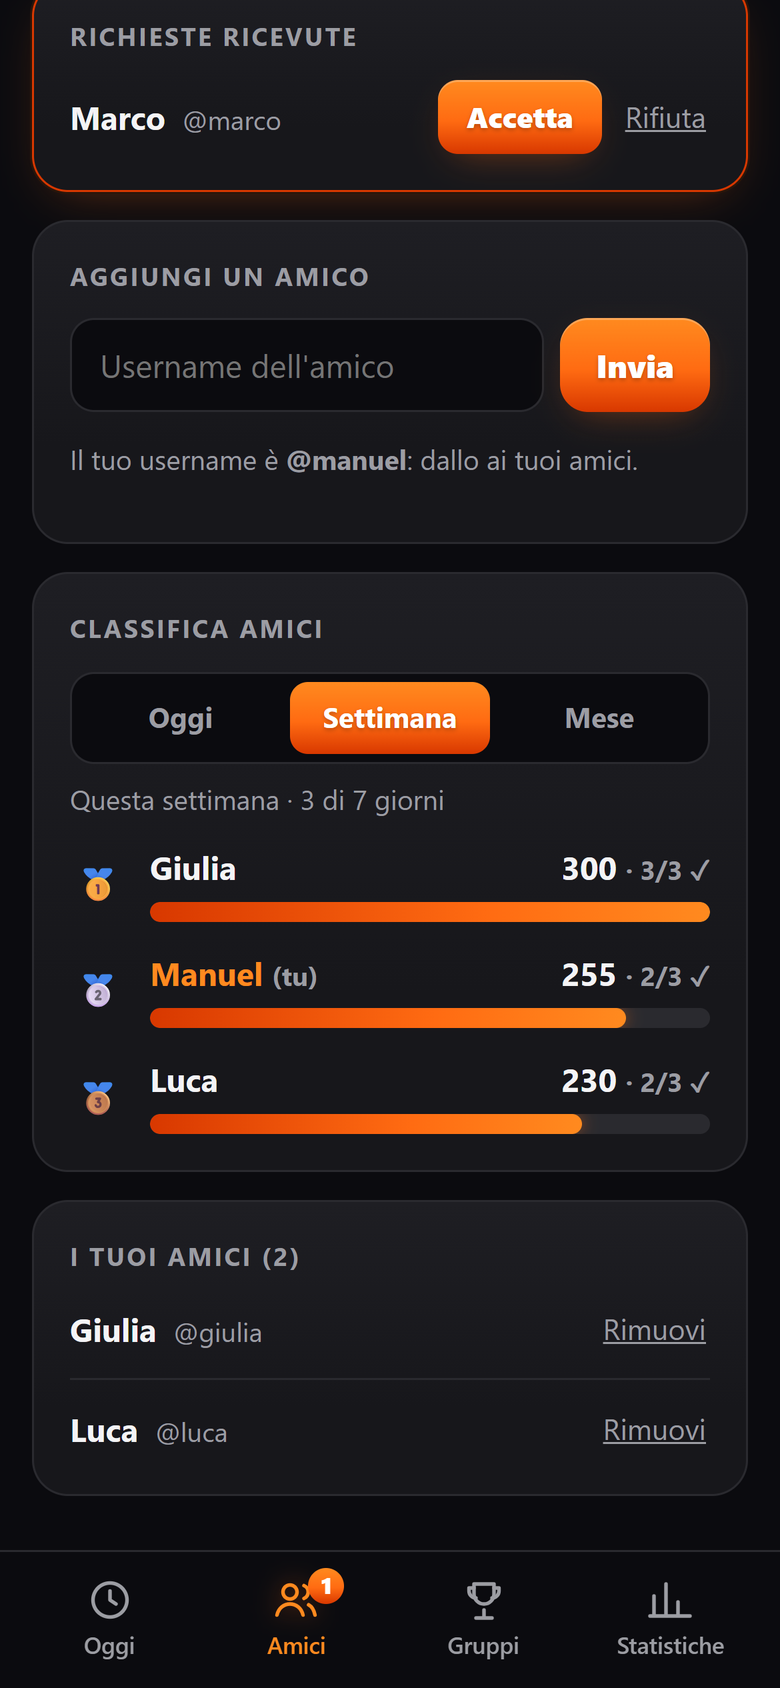
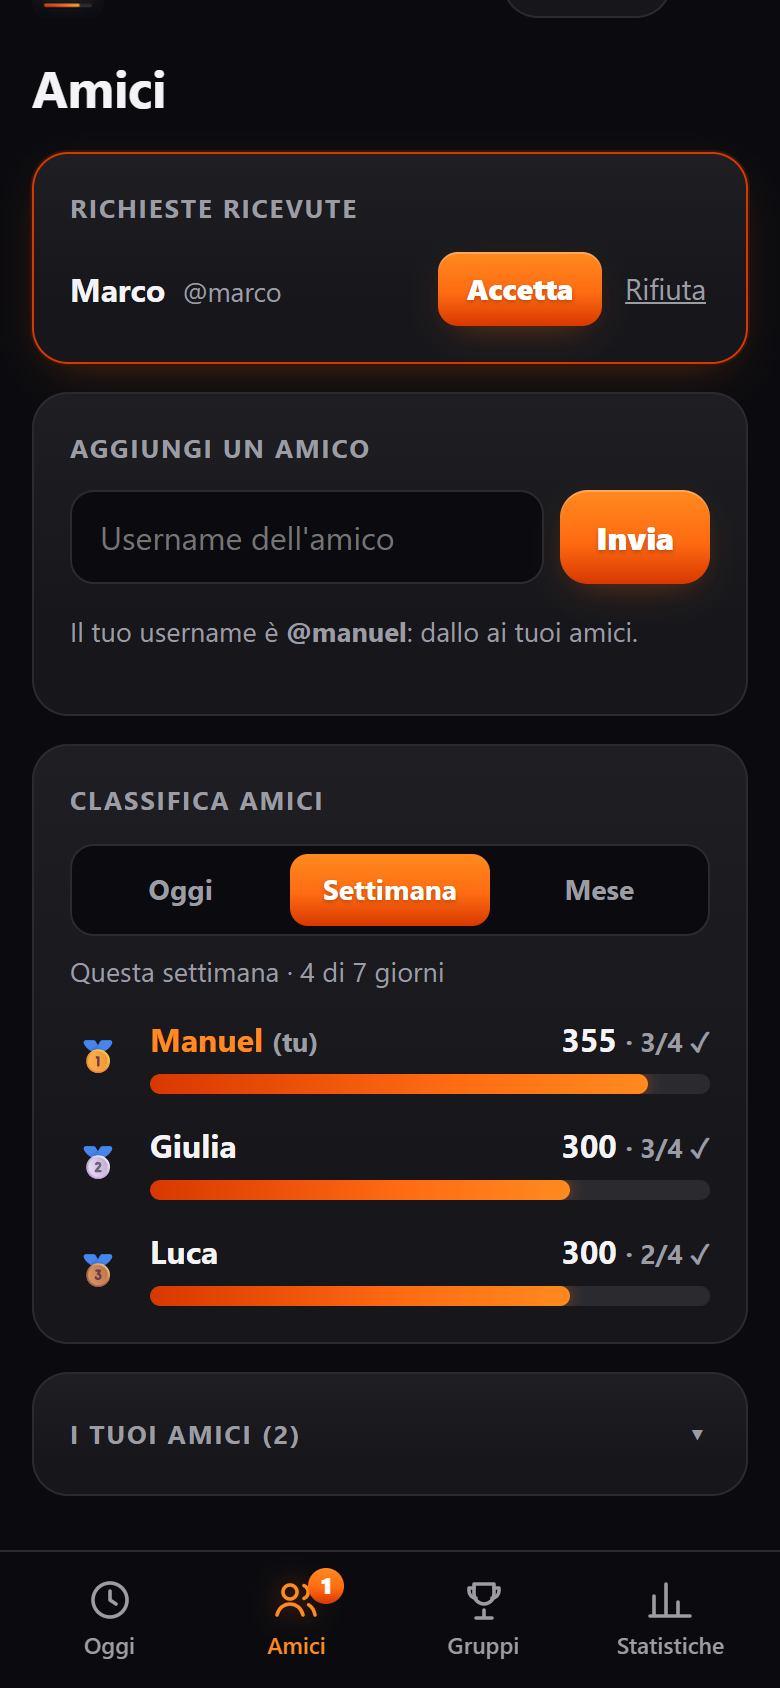
L'app si chiama OneMore (ex COSTUEL)
- Nome nell'interfaccia, nel manifest, nelle notifiche, nei testi di condivisione e nei documenti
- Pacchetto di analisi rinominato in onemore_analysis (notebook e test aggiornati)
- Screenshot del README rifatti con il nuovo nome
- Restano invariati: servizio Render (render.yaml), indirizzo del repository, percorso del venv locale

diff --git a/challenge/templates/challenge/base.html b/challenge/templates/challenge/base.html
@@ -3,7 +3,7 @@
 <head>
   <meta charset="utf-8">
   <meta name="viewport" content="width=device-width, initial-scale=1, viewport-fit=cover">
-  <title>{% block title %}COSTUEL{% endblock %}</title>
+  <title>{% block title %}OneMore{% endblock %}</title>
   <meta name="description" content="Sfida dei {{ DEFAULT_DAILY_GOAL }} piegamenti al giorno">
   <meta name="theme-color" content="#0b0b0f">
   <meta name="color-scheme" content="dark">
@@ -12,13 +12,13 @@
   <link rel="apple-touch-icon" href="{% static 'challenge/icons/apple-touch-icon.png' %}">
   <meta name="apple-mobile-web-app-capable" content="yes">
   <meta name="mobile-web-app-capable" content="yes">
-  <meta name="apple-mobile-web-app-title" content="COSTUEL">
+  <meta name="apple-mobile-web-app-title" content="OneMore">
   <meta name="apple-mobile-web-app-status-bar-style" content="black-translucent">
   <link rel="stylesheet" href="{% static 'challenge/app.css' %}">
 </head>
 <body>
   <header class="topbar">
-    <a class="brand" href="{% url 'home' %}"><img class="brand-mark" src="{% static 'challenge/icons/favicon-64.png' %}" alt="" width="36" height="36"> COSTUEL</a>
+    <a class="brand" href="{% url 'home' %}"><img class="brand-mark" src="{% static 'challenge/icons/favicon-64.png' %}" alt="" width="36" height="36"> OneMore</a>
     {% if user.is_authenticated %}
       <form method="post" action="{% url 'logout' %}" class="topbar-user">
         {% csrf_token %}
@@ -64,7 +64,7 @@
   {% endif %}
 
   <script>
-    window.COSTUEL = {
+    window.ONEMORE = {
       vapidPublicKey: "{{ VAPID_PUBLIC_KEY }}",
       csrfToken: "{{ csrf_token }}",
       urls: {

diff --git a/challenge/static/challenge/app.js b/challenge/static/challenge/app.js
@@ -1,5 +1,5 @@
 (() => {
-  const cfg = window.COSTUEL;
+  const cfg = window.ONEMORE;
   const board = document.getElementById("board");
 
   // --- Conferma prima delle azioni delicate (form con data-confirm) ---
@@ -67,7 +67,7 @@
     const url = button.dataset.share;
     const text = button.dataset.shareText || "";
     if (navigator.share) {
-      try { await navigator.share({ title: "COSTUEL", text, url }); } catch (e) { /* annullato */ }
+      try { await navigator.share({ title: "OneMore", text, url }); } catch (e) { /* annullato */ }
       return;
     }
     try {
@@ -185,7 +185,7 @@
     if (!pushSupported) {
       if (isIOS && !isStandalone) {
         show("Installa l'app per le notifiche",
-          "Su iPhone: tocca Condividi → \"Aggiungi alla schermata Home\", poi apri COSTUEL dall'icona.", [], true);
+          "Su iPhone: tocca Condividi → \"Aggiungi alla schermata Home\", poi apri OneMore dall'icona.", [], true);
       } else {
         show("Notifiche non disponibili", "Questo browser non supporta le notifiche push. Prova con Chrome o Safari.");
       }

diff --git a/challenge/templates/challenge/sw.js b/challenge/templates/challenge/sw.js
@@ -1,4 +1,4 @@
-{% load static %}// Service worker di COSTUEL: riceve le notifiche push anche ad app chiusa.
+{% load static %}// Service worker di OneMore: riceve le notifiche push anche ad app chiusa.
 
 self.addEventListener("install", () => self.skipWaiting());
 self.addEventListener("activate", (event) => event.waitUntil(self.clients.claim()));
@@ -8,9 +8,9 @@ self.addEventListener("push", (event) => {
   try {
     data = event.data ? event.data.json() : {};
   } catch (e) {
-    data = { title: "COSTUEL", body: event.data ? event.data.text() : "" };
+    data = { title: "OneMore", body: event.data ? event.data.text() : "" };
   }
-  const title = data.title || "COSTUEL";
+  const title = data.title || "OneMore";
   const options = {
     body: data.body || "",
     icon: "{% static 'challenge/icons/icon-192.png' %}",

diff --git a/challenge/templates/challenge/group_detail.html b/challenge/templates/challenge/group_detail.html
@@ -1,6 +1,6 @@
 {% extends "challenge/base.html" %}
 
-{% block title %}{{ group.name }} · COSTUEL{% endblock %}
+{% block title %}{{ group.name }} · OneMore{% endblock %}
 
 {% block content %}
   <div class="page-head">
@@ -44,7 +44,7 @@
     <div class="invite">
       <input type="text" readonly value="{{ invite_url }}" aria-label="Link d'invito" id="invite-url">
       <button type="button" class="btn btn-small" data-share="{{ invite_url }}"
-              data-share-text="Unisciti al gruppo “{{ group.name }}” su COSTUEL: {{ goal_today }} piegamenti al giorno! 💪">
+              data-share-text="Unisciti al gruppo “{{ group.name }}” su OneMore: {{ goal_today }} piegamenti al giorno! 💪">
         Condividi
       </button>
     </div>

diff --git a/challenge/static/challenge/app.css b/challenge/static/challenge/app.css
@@ -1,4 +1,4 @@
-/* Tema scuro sempre attivo. Colori condivisi con il logo COSTUEL (logo.jfif). */
+/* Tema scuro sempre attivo. Colori condivisi con il logo OneMore (logo.jfif). */
 :root {
   /* neri/grigi neutri del riquadro del logo */
   --bg: #0b0b0f;

diff --git a/challenge/templates/challenge/group_invite.html b/challenge/templates/challenge/group_invite.html
@@ -1,6 +1,6 @@
 {% extends "challenge/base.html" %}
 
-{% block title %}Invito a {{ group.name }} · COSTUEL{% endblock %}
+{% block title %}Invito a {{ group.name }} · OneMore{% endblock %}
 
 {% block content %}
   <section class="card auth center">

diff --git a/challenge/templates/challenge/stats.html b/challenge/templates/challenge/stats.html
@@ -1,6 +1,6 @@
 {% extends "challenge/base.html" %}
 
-{% block title %}Statistiche · COSTUEL{% endblock %}
+{% block title %}Statistiche · OneMore{% endblock %}
 
 {% block content %}
   <h1 class="page-title">Statistiche</h1>

diff --git a/challenge/templates/challenge/password_change.html b/challenge/templates/challenge/password_change.html
@@ -1,6 +1,6 @@
 {% extends "challenge/base.html" %}
 
-{% block title %}Cambia password · COSTUEL{% endblock %}
+{% block title %}Cambia password · OneMore{% endblock %}
 
 {% block content %}
   <div class="page-head">

diff --git a/challenge/templates/challenge/profile.html b/challenge/templates/challenge/profile.html
@@ -1,6 +1,6 @@
 {% extends "challenge/base.html" %}
 
-{% block title %}Profilo · COSTUEL{% endblock %}
+{% block title %}Profilo · OneMore{% endblock %}
 
 {% block content %}
   <h1 class="page-title">Profilo</h1>

diff --git a/challenge/templates/registration/signup.html b/challenge/templates/registration/signup.html
@@ -1,6 +1,6 @@
 {% extends "challenge/base.html" %}
 
-{% block title %}Registrati · COSTUEL{% endblock %}
+{% block title %}Registrati · OneMore{% endblock %}
 
 {% block content %}
   <section class="card auth">

diff --git a/challenge/templates/challenge/groups.html b/challenge/templates/challenge/groups.html
@@ -1,6 +1,6 @@
 {% extends "challenge/base.html" %}
 
-{% block title %}Gruppi · COSTUEL{% endblock %}
+{% block title %}Gruppi · OneMore{% endblock %}
 
 {% block content %}
   <h1 class="page-title">Gruppi</h1>

diff --git a/challenge/templates/challenge/friends.html b/challenge/templates/challenge/friends.html
@@ -1,6 +1,6 @@
 {% extends "challenge/base.html" %}
 
-{% block title %}Amici · COSTUEL{% endblock %}
+{% block title %}Amici · OneMore{% endblock %}
 
 {% block content %}
   <h1 class="page-title">Amici</h1>
